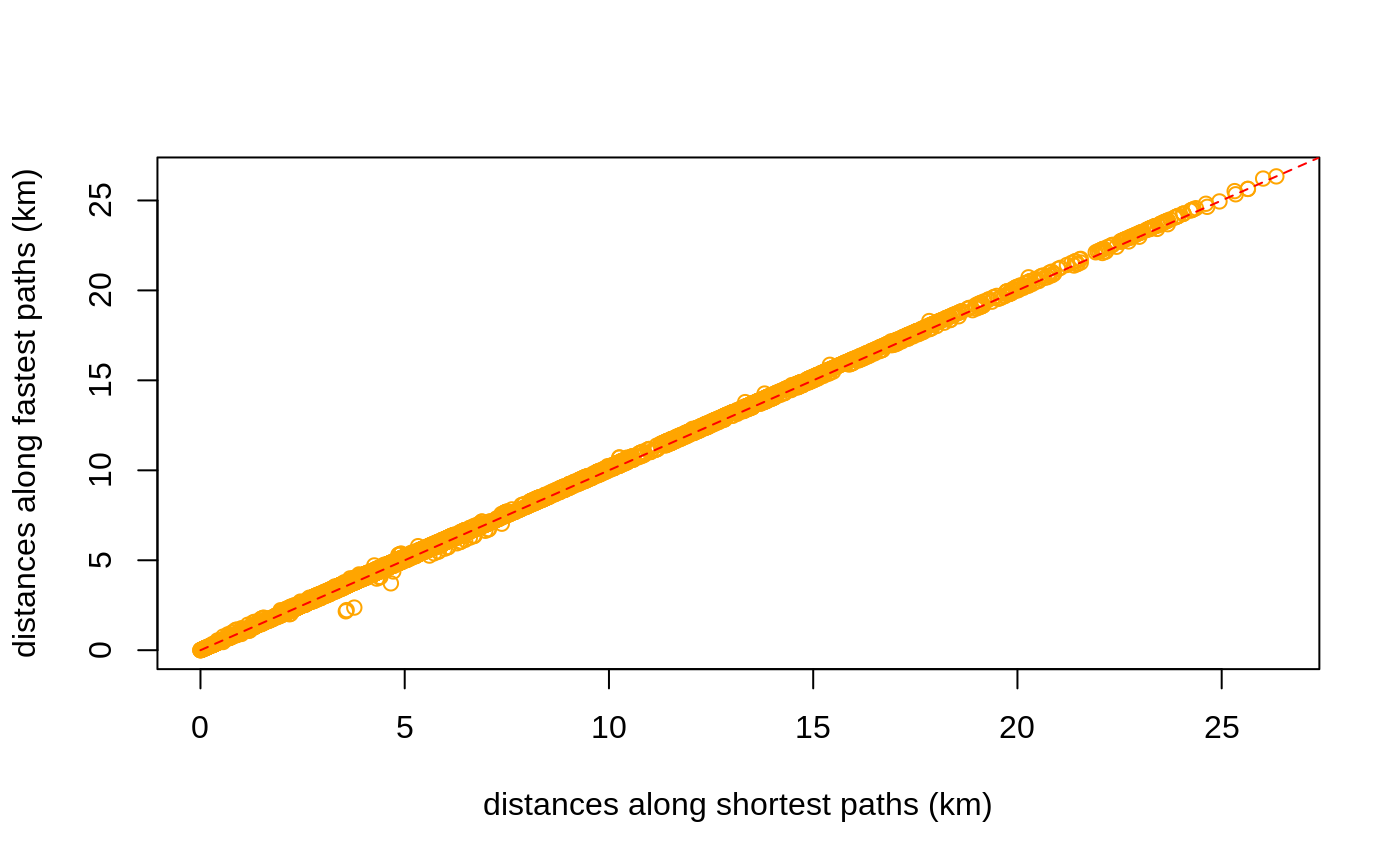
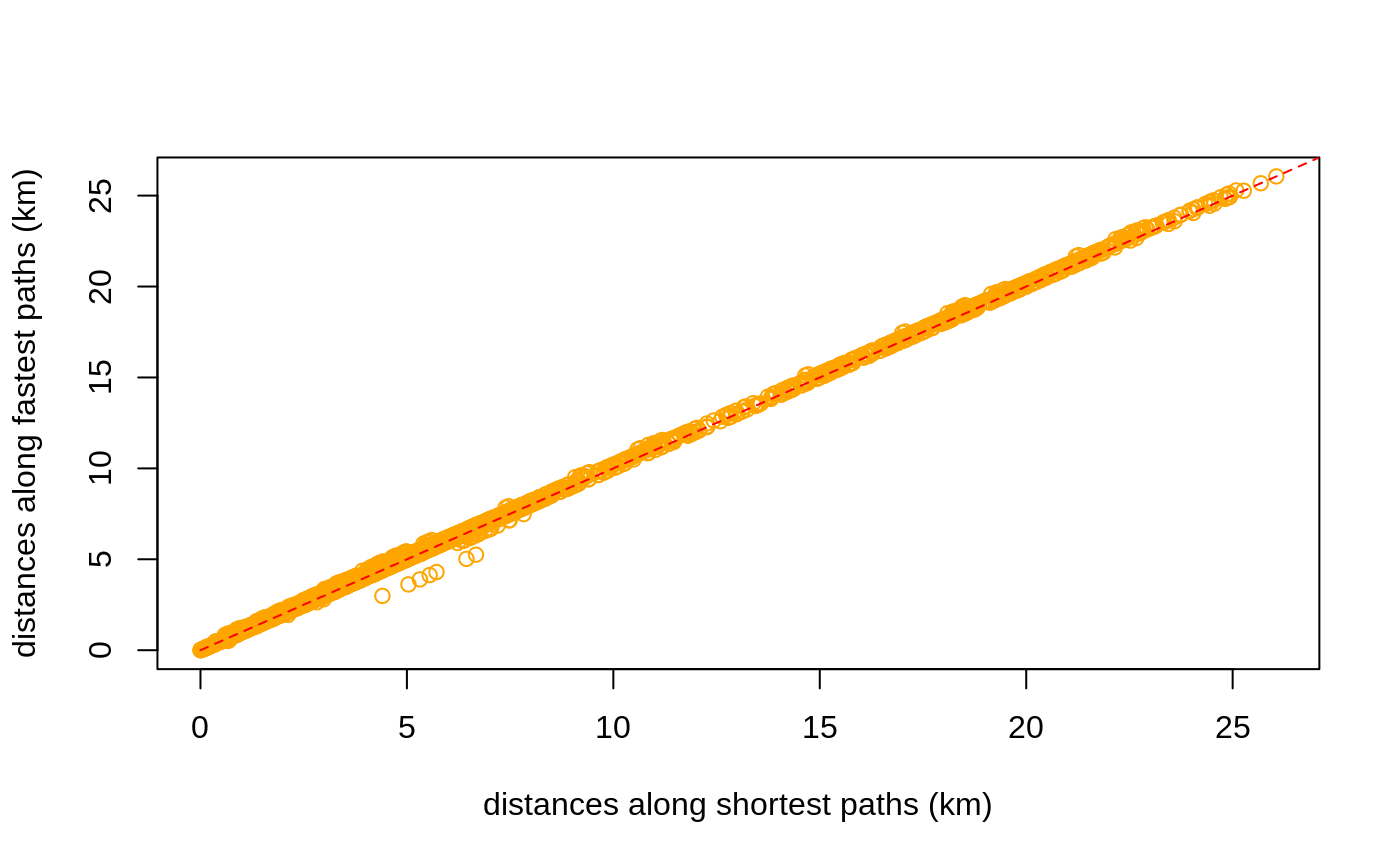
Built site for dodgr: 0.2.5.27@71bd8a2

diff --git a/articles/dodgr.html b/articles/dodgr.html
@@ -336,7 +336,7 @@
 <p>The <code>dodgr</code> packages includes a function to select a random connected portion of graph including a specified number of vertices. This function is used in the <a href="https://atfutures.github.io/dodgr/reference/compare_heaps.html"><code><a href="../reference/compare_heaps.html">compare_heaps()</a></code></a> function described below, but is also useful for general statistical analyses of large graphs which may otherwise take too long to compute.</p>
 <div class="sourceCode" id="cb58"><pre class="sourceCode r"><code class="sourceCode r"><a class="sourceLine" id="cb58-1" data-line-number="1">graph_sub &lt;-<span class="st"> </span><span class="kw"><a href="../reference/dodgr_sample.html">dodgr_sample</a></span> (graph, <span class="dt">nverts =</span> <span class="dv">100</span>)</a>
 <a class="sourceLine" id="cb58-2" data-line-number="2"><span class="kw"><a href="https://rdrr.io/r/base/nrow.html">nrow</a></span> (graph_sub)</a></code></pre></div>
-<pre><code>## [1] 208</code></pre>
+<pre><code>## [1] 199</code></pre>
 <p>The random sample has around twice as many edges as vertices, in accordance with the statistics calculated above.</p>
 <div class="sourceCode" id="cb60"><pre class="sourceCode r"><code class="sourceCode r"><a class="sourceLine" id="cb60-1" data-line-number="1"><span class="kw"><a href="https://rdrr.io/r/base/nrow.html">nrow</a></span> (<span class="kw"><a href="../reference/dodgr_vertices.html">dodgr_vertices</a></span> (graph_sub))</a></code></pre></div>
 <pre><code>## [1] 100</code></pre>
@@ -416,30 +416,30 @@
 <pre><code>## Loading required namespace: igraph</code></pre>
 <pre><code>##                                                                                   test
 ## 6       d &lt;- dodgr_dists(graph_contracted, from = from_id, to = to_id, heap = "BHeap")
+## 11        d &lt;- dodgr_dists(graph_contracted, from = from_id, to = to_id, heap = "set")
 ## 7       d &lt;- dodgr_dists(graph_contracted, from = from_id, to = to_id, heap = "FHeap")
-## 8     d &lt;- dodgr_dists(graph_contracted, from = from_id, to = to_id, heap = "TriHeap")
 ## 9  d &lt;- dodgr_dists(graph_contracted, from = from_id, to = to_id, heap = "TriHeapExt")
 ## 10     d &lt;- dodgr_dists(graph_contracted, from = from_id, to = to_id, heap = "Heap23")
-## 11        d &lt;- dodgr_dists(graph_contracted, from = from_id, to = to_id, heap = "set")
+## 8     d &lt;- dodgr_dists(graph_contracted, from = from_id, to = to_id, heap = "TriHeap")
 ## 1                  d &lt;- dodgr_dists(graph, from = from_id, to = to_id, heap = "BHeap")
 ## 12                  d &lt;- igraph::distances(igr, v = from_id, to = to_id, mode = "out")
 ## 2                  d &lt;- dodgr_dists(graph, from = from_id, to = to_id, heap = "FHeap")
-## 5                 d &lt;- dodgr_dists(graph, from = from_id, to = to_id, heap = "Heap23")
 ## 3                d &lt;- dodgr_dists(graph, from = from_id, to = to_id, heap = "TriHeap")
+## 5                 d &lt;- dodgr_dists(graph, from = from_id, to = to_id, heap = "Heap23")
 ## 4             d &lt;- dodgr_dists(graph, from = from_id, to = to_id, heap = "TriHeapExt")
 ##    replications elapsed relative user.self sys.self user.child sys.child
-## 6             1   0.003    1.000     0.003    0.000          0         0
-## 7             1   0.003    1.000     0.004    0.000          0         0
-## 8             1   0.003    1.000     0.004    0.000          0         0
-## 9             1   0.003    1.000     0.003    0.000          0         0
-## 10            1   0.003    1.000     0.004    0.000          0         0
-## 11            1   0.003    1.000     0.003    0.000          0         0
-## 1             1   0.008    2.667     0.013    0.000          0         0
-## 12            1   0.010    3.333     0.010    0.000          0         0
-## 2             1   0.012    4.000     0.020    0.000          0         0
-## 5             1   0.014    4.667     0.023    0.000          0         0
-## 3             1   0.015    5.000     0.020    0.004          0         0
-## 4             1   0.016    5.333     0.016    0.000          0         0</code></pre>
+## 6             1   0.004     1.00     0.006    0.000          0         0
+## 11            1   0.005     1.25     0.006    0.000          0         0
+## 7             1   0.006     1.50     0.008    0.000          0         0
+## 9             1   0.006     1.50     0.007    0.000          0         0
+## 10            1   0.006     1.50     0.008    0.000          0         0
+## 8             1   0.008     2.00     0.010    0.000          0         0
+## 1             1   0.013     3.25     0.019    0.001          0         0
+## 12            1   0.017     4.25     0.017    0.000          0         0
+## 2             1   0.021     5.25     0.035    0.000          0         0
+## 3             1   0.023     5.75     0.041    0.000          0         0
+## 5             1   0.023     5.75     0.040    0.000          0         0
+## 4             1   0.026     6.50     0.026    0.000          0         0</code></pre>
 <p>The key column of that <code>data.frame</code> is <code>relative</code>, which quantifies the relative performance of each test in relation to the best which is given a score of 1. <code>dodgr</code> using the default <code>heap = "BHeap"</code>, which is a binary heap priority queue, performs faster than <a href="https://igraph.org"><code>igraph</code></a> <span class="citation">(Csardi and Nepusz 2006)</span> for these graphs. Different kind of graphs will perform differently with different priority queue structures, and this function enables users to empirically discern the optimal heap for their kind of graph.</p>
 <p>Note, however, that this is not an entirely fair comparison, because <code>dodgr</code> calculates dual-weighted distances, whereas <a href="https://igraph.org"><code>igraph</code></a>—and indeed all other <strong>R</strong> packages—only directly calculate distances based on a single set of weights. Implementing dual-weighted routing in these cases requires explicitly re-tracing all paths and summing the second set of weights along each path. A time comparison in that case would be very strongly in favour of <code>dodgr</code>. Moreover, <code>dodgr</code> can convert graphs to contracted form through removing redundant vertices, as detailed in the following section. Doing so greatly improves performance with respect to <a href="https://igraph.org"><code>igraph</code></a>.</p>
 <p>For those wishing to do explicit comparisons themselves, the following code generates the <a href="https://igraph.org"><code>igraph</code></a> equivalent of <a href="https://atfutures.github.io/dodgr/reference/dodgr_distances.html"><code><a href="../reference/dodgr_distances.html">dodgr_distances()</a></code></a>, although of course for single-weighted graphs only:</p>
@@ -470,11 +470,11 @@
 <a class="sourceLine" id="cb86-5" data-line-number="5">                       d2 &lt;-<span class="st"> </span><span class="kw"><a href="../reference/dodgr_dists.html">dodgr_dists</a></span> (graph, <span class="dt">from =</span> from, <span class="dt">to =</span> to),</a>
 <a class="sourceLine" id="cb86-6" data-line-number="6">                       <span class="dt">replications =</span> <span class="dv">2</span>)</a></code></pre></div>
 <pre><code>##                                             test replications elapsed
-## 2 d2 &lt;- dodgr_dists(graph, from = from, to = to)            2   0.040
+## 2 d2 &lt;- dodgr_dists(graph, from = from, to = to)            2   0.042
 ## 1   d2 &lt;- dodgr_dists(grc, from = from, to = to)            2   0.008
 ##   relative user.self sys.self user.child sys.child
-## 2        5     0.059        0          0         0
-## 1        1     0.010        0          0         0</code></pre>
+## 2     5.25      0.06        0          0         0
+## 1     1.00      0.01        0          0         0</code></pre>
 <p>And contracting the graph has a similar effect of speeding up pairwise routing between these 100 points. All routing algorithms scale non-linearly with size, and relative improvements in efficiency will be even greater for larger graphs.</p>
 <div id="routing-on-contracted-graphs" class="section level2">
 <h2 class="hasAnchor">
@@ -486,11 +486,11 @@
 <pre><code>## [1] 672</code></pre>
 <div class="sourceCode" id="cb90"><pre class="sourceCode r"><code class="sourceCode r"><a class="sourceLine" id="cb90-1" data-line-number="1">verts &lt;-<span class="st"> </span><span class="kw"><a href="https://rdrr.io/r/base/sample.html">sample</a></span> (<span class="kw"><a href="../reference/dodgr_vertices.html">dodgr_vertices</a></span> (graph)<span class="op">$</span>id, <span class="dt">size =</span> <span class="dv">100</span>)</a>
 <a class="sourceLine" id="cb90-2" data-line-number="2"><span class="kw"><a href="https://rdrr.io/r/utils/head.html">head</a></span> (verts) <span class="co"># a character vector</span></a></code></pre></div>
-<pre><code>## [1] "5351820897" "5351820956" "6161853513" "571423815"  "2195425009"
-## [6] "5351515768"</code></pre>
+<pre><code>## [1] "339574193"  "3697937610" "2398957496" "2627476998" "3921523005"
+## [6] "1691495764"</code></pre>
 <div class="sourceCode" id="cb92"><pre class="sourceCode r"><code class="sourceCode r"><a class="sourceLine" id="cb92-1" data-line-number="1">grc &lt;-<span class="st"> </span><span class="kw"><a href="../reference/dodgr_contract_graph.html">dodgr_contract_graph</a></span> (graph, verts)</a>
 <a class="sourceLine" id="cb92-2" data-line-number="2"><span class="kw"><a href="https://rdrr.io/r/base/nrow.html">nrow</a></span> (grc)</a></code></pre></div>
-<pre><code>## [1] 848</code></pre>
+<pre><code>## [1] 850</code></pre>
 <p>Retaining the nominated vertices yields a graph with considerably more edges than the fully contracted graph excluding these vertices. The <a href="https://atfutures.github.io/dodgr/reference/dodgr_distances.html"><code><a href="../reference/dodgr_distances.html">dodgr_distances()</a></code></a> function can be applied to the latter graph to obtain accurate distances precisely routed between these points, yet using the speed advantages of graph contraction.</p>
 </div>
 </div>
@@ -531,19 +531,47 @@
 <pre><code>## [1] 10</code></pre>
 <p>The result (<code>dp</code>) is a list of 10 items, each of which contains 5 vectors. An example is,</p>
 <div class="sourceCode" id="cb99"><pre class="sourceCode r"><code class="sourceCode r"><a class="sourceLine" id="cb99-1" data-line-number="1">dp [[<span class="dv">1</span>]] [[<span class="dv">1</span>]]</a></code></pre></div>
-<pre><code>##  [1] "5974426254" "5974426310" "5974426305" "5974426301" "5974426283"
-##  [6] "5974426275" "5974426268" "5974426260" "5974426269" "5974426261"</code></pre>
+<pre><code>##   [1] "5974426276" "5351820876" "5351820875" "5974426285" "5351820873"
+##   [6] "5351820872" "5351820871" "5351820870" "5974426277" "5351820869"
+##  [11] "5974426270" "5351820867" "5974426262" "5351820878" "5351820879"
+##  [16] "5974426306" "5974426302" "5351820880" "5974426297" "5351820881"
+##  [21] "5974426291" "5351820882" "5351820883" "5351820884" "5974426298"
+##  [26] "5351820885" "5974426292" "5974426286" "5351820886" "5351820887"
+##  [31] "5974426278" "5351820888" "5351820889" "5351820890" "5351820891"
+##  [36] "5974426256" "5351820892" "5351820919" "5351820893" "5351820895"
+##  [41] "5974426293" "5974426287" "5351820897" "5351820899" "5974426279"
+##  [46] "5351820900" "5974426271" "5351820901" "5351820902" "5351820903"
+##  [51] "5351820904" "5351820905" "5351820906" "5351820907" "5351820908"
+##  [56] "5974426280" "5351820909" "5351820910" "5974426272" "5974426265"
+##  [61] "5351820911" "5974426258" "5351820913" "5351820914" "5351820915"
+##  [66] "5351820916" "2588146068" "2588146127" "2588146020" "2588146125"
+##  [71] "2588146098" "2588146103" "2588146101" "2588146089" "2588146081"
+##  [76] "2588146050" "2588146042" "2588146120" "2588146091" "2588146032"
+##  [81] "2398957747" "2398957746" "286632883"  "2398957740" "1390214413"
+##  [86] "2398957736" "286632882"  "2398957733" "2398957730" "2398957727"
+##  [91] "676635816"  "2398957724" "2398957714" "2398957712" "2398957710"
+##  [96] "2398957707" "338512648"  "2398957704" "2398957702" "2398957694"
+## [101] "1427116026" "2398957682" "2398957668" "5974503437" "1376768511"
+## [106] "5974503436" "1376768873" "1376768299" "1376768660" "5974503435"
+## [111] "1376768931" "5974503434" "5351820956" "5974503433" "1376768356"
+## [116] "5351820955" "1376768725" "5974503432" "1376769087" "5351820954"
+## [121] "1376768601" "6414886578" "1376768961" "1376768386" "6414886577"
+## [126] "1376768754" "6414886576" "1376769017" "6414886575" "1376768447"
+## [131] "1376768817" "6414886574" "1376769196" "1376768697" "4506481428"
+## [136] "4506481427" "4506481426" "4506481425" "4506481424" "4506481423"
+## [141] "4506481422" "4506481421" "4506481420" "4506481419" "4506481418"
+## [146] "4506481417" "4506481416" "4506481415"</code></pre>
 <p>For spatial graphs, the coordinates of these paths can be obtained by extracting the vertices with <code><a href="../reference/dodgr_vertices.html">dodgr_vertices()</a></code> and matching the vertex IDs:</p>
 <div class="sourceCode" id="cb101"><pre class="sourceCode r"><code class="sourceCode r"><a class="sourceLine" id="cb101-1" data-line-number="1">verts &lt;-<span class="st"> </span><span class="kw"><a href="../reference/dodgr_vertices.html">dodgr_vertices</a></span> (graph)</a>
 <a class="sourceLine" id="cb101-2" data-line-number="2">path1 &lt;-<span class="st"> </span>verts [<span class="kw"><a href="https://rdrr.io/r/base/match.html">match</a></span> (dp [[<span class="dv">1</span>]] [[<span class="dv">1</span>]], verts<span class="op">$</span>id), ]</a>
 <a class="sourceLine" id="cb101-3" data-line-number="3"><span class="kw"><a href="https://rdrr.io/r/utils/head.html">head</a></span> (path1)</a></code></pre></div>
 <pre><code>##              id        x        y component    n
-## 5502 5974426254 76.44764 15.31765         1 2717
-## 5500 5974426310 76.44710 15.31761         1 2716
-## 5498 5974426305 76.44704 15.31759         1 2715
-## 5496 5974426301 76.44702 15.31756         1 2714
-## 5494 5974426283 76.44701 15.31748         1 2713
-## 5492 5974426275 76.44697 15.31741         1 2712</code></pre>
+## 5472 5974426276 76.44661 15.31544         1 2702
+## 5470 5351820876 76.44661 15.31497         1 2701
+## 5468 5351820875 76.44662 15.31488         1 2700
+## 5466 5974426285 76.44666 15.31479         1 2699
+## 5464 5351820873 76.44668 15.31453         1 2698
+## 5462 5351820872 76.44672 15.31444         1 2697</code></pre>
 <p>Paths calculated on contracted graphs will of course have fewer vertices than those calculated on full graphs.</p>
 </div>
 <div id="bibliography" class="section level1 unnumbered">

diff --git a/articles/times.html b/articles/times.html
@@ -226,11 +226,11 @@
 <p><img src="times_files/figure-html/shortest-vs-fastest-1.png" width="700"></p>
 <p>The average distance between the two (in metres) is:</p>
 <div class="sourceCode" id="cb9"><pre class="sourceCode r"><code class="sourceCode r"><a class="sourceLine" id="cb9-1" data-line-number="1"><span class="kw"><a href="https://rdrr.io/r/base/mean.html">mean</a></span> (<span class="kw"><a href="https://rdrr.io/r/base/MathFun.html">abs</a></span> (d_time <span class="op">-</span><span class="st"> </span>d_dist), <span class="dt">na.rm =</span> <span class="ot">TRUE</span>)</a></code></pre></div>
-<pre><code>## [1] 50.29141</code></pre>
+<pre><code>## [1] 53.81089</code></pre>
 <p>The plot reveals that shortest distances are indeed somewhat shorter than distances along fastest paths, but also that some fastest paths are actually shorter than shortest paths:</p>
 <div class="sourceCode" id="cb11"><pre class="sourceCode r"><code class="sourceCode r"><a class="sourceLine" id="cb11-1" data-line-number="1">index &lt;-<span class="st"> </span><span class="kw"><a href="https://rdrr.io/r/base/which.html">which</a></span> (<span class="op">!</span><span class="kw"><a href="https://rdrr.io/r/base/NA.html">is.na</a></span> (d_time) <span class="op">&amp;</span><span class="st"> </span><span class="op">!</span><span class="kw"><a href="https://rdrr.io/r/base/NA.html">is.na</a></span> (d_dist))</a>
 <a class="sourceLine" id="cb11-2" data-line-number="2"><span class="kw"><a href="https://rdrr.io/r/base/length.html">length</a></span> (<span class="kw"><a href="https://rdrr.io/r/base/which.html">which</a></span> (d_time [index] <span class="op">&lt;</span><span class="st"> </span>d_dist [index])) <span class="op">/</span><span class="st"> </span><span class="kw"><a href="https://rdrr.io/r/base/length.html">length</a></span> (index)</a></code></pre></div>
-<pre><code>## [1] 0.0220339</code></pre>
+<pre><code>## [1] 0.01382488</code></pre>
 <p>While <code>dodgr</code> and indeed all routing engines attempt to maximally reconcile differences between fastest and shortest routes, there nevertheless remain important discrepancies. Foremost among these, and the primary reason why some fastest routes may in fact be shorter than shortest routes, is that fastest routes allocate preferences for different kinds of way based both on the <code>value</code> column in the <code>weighting_profiles$weighting_profiles</code> table illustrated above, and on the actual maximum speed of a given edge, which itself may be a combination of maximum speeds as specified in OSM itself, maximum speeds from the <code>weighting_profiles$weighting_profiles</code> table, or values specific to a given surface. The result is that some unique combination of maximum speeds along a network may lead to <em>fastest</em> routes being preferentially directed along a path that is actually shorter than the direct shortest path which is calculated independent of maximum speed values.</p>
 <p>Such discrepancies are important in understanding differences in routes <em>times</em> calculated along shortest versus fastest paths. These times can be calculated (in seconds) with the <a href="https://atfutures.github.io/dodgr/reference/dodgr_times.html"><code><a href="../reference/dodgr_times.html">dodgr_times()</a></code></a> function:</p>
 <div class="sourceCode" id="cb13"><pre class="sourceCode r"><code class="sourceCode r"><a class="sourceLine" id="cb13-1" data-line-number="1">t_dist &lt;-<span class="st"> </span><span class="kw"><a href="../reference/dodgr_times.html">dodgr_times</a></span> (graph, <span class="dt">from =</span> from, <span class="dt">to =</span> to, <span class="dt">shortest =</span> <span class="ot">TRUE</span>) <span class="co"># default</span></a>
@@ -241,11 +241,11 @@
 <a class="sourceLine" id="cb13-6" data-line-number="6"><span class="kw"><a href="https://rdrr.io/r/graphics/lines.html">lines</a></span> (<span class="dv">0</span><span class="op">:</span><span class="dv">100</span>, <span class="dv">0</span><span class="op">:</span><span class="dv">100</span>, <span class="dt">col =</span> <span class="st">"red"</span>, <span class="dt">lty =</span> <span class="dv">2</span>)</a></code></pre></div>
 <p><img src="times_files/figure-html/shortest-vs-fastest-times-1.png" width="700"></p>
 <div class="sourceCode" id="cb14"><pre class="sourceCode r"><code class="sourceCode r"><a class="sourceLine" id="cb14-1" data-line-number="1"><span class="kw"><a href="https://rdrr.io/r/base/mean.html">mean</a></span> (<span class="kw"><a href="https://rdrr.io/r/base/MathFun.html">abs</a></span> (t_time <span class="op">-</span><span class="st"> </span>t_dist), <span class="dt">na.rm =</span> <span class="ot">TRUE</span>)</a></code></pre></div>
-<pre><code>## [1] 57.76645</code></pre>
+<pre><code>## [1] 48.1183</code></pre>
 <p>As above, times along fastest paths are generally less than times along shortest paths, although there are again a few exceptions:</p>
 <div class="sourceCode" id="cb16"><pre class="sourceCode r"><code class="sourceCode r"><a class="sourceLine" id="cb16-1" data-line-number="1">index &lt;-<span class="st"> </span><span class="kw"><a href="https://rdrr.io/r/base/which.html">which</a></span> (<span class="op">!</span><span class="kw"><a href="https://rdrr.io/r/base/NA.html">is.na</a></span> (t_time) <span class="op">&amp;</span><span class="st"> </span><span class="op">!</span><span class="kw"><a href="https://rdrr.io/r/base/NA.html">is.na</a></span> (t_dist))</a>
 <a class="sourceLine" id="cb16-2" data-line-number="2"><span class="kw"><a href="https://rdrr.io/r/base/length.html">length</a></span> (<span class="kw"><a href="https://rdrr.io/r/base/which.html">which</a></span> (t_dist [index] <span class="op">&lt;</span><span class="st"> </span>t_time [index])) <span class="op">/</span><span class="st"> </span><span class="kw"><a href="https://rdrr.io/r/base/length.html">length</a></span> (index)</a></code></pre></div>
-<pre><code>## [1] 0.002881356</code></pre>
+<pre><code>## [1] 0.03557604</code></pre>
 <p>These results demonstrate how the combination of the <a href="https://atfutures.github.io/dodgr/reference/dodgr_distances.html"><code><a href="../reference/dodgr_distances.html">dodgr_distances()</a></code></a> and <a href="https://atfutures.github.io/dodgr/reference/dodgr_times.html"><code><a href="../reference/dodgr_times.html">dodgr_times()</a></code></a> functions enable calculation of both distances and times along both shortest and fastest paths.</p>
 <div id="time-based-paths-and-flow-aggregation" class="section level2">
 <h2 class="hasAnchor">

diff --git a/reference/compare_heaps.html b/reference/compare_heaps.html
@@ -156,31 +156,31 @@ fair comparisons, run only once or re-start the current R session.</p>
     <h2 class="hasAnchor" id="examples"><a class="anchor" href="#examples"></a>Examples</h2>
     <pre class="examples"><div class='input'><span class='no'>graph</span> <span class='kw'>&lt;-</span> <span class='fu'><a href='weight_streetnet.html'>weight_streetnet</a></span> (<span class='no'>hampi</span>)
 <span class='fu'>compare_heaps</span> (<span class='no'>graph</span>, <span class='kw'>nverts</span> <span class='kw'>=</span> <span class='fl'>1000</span>, <span class='kw'>replications</span> <span class='kw'>=</span> <span class='fl'>1</span>)</div><div class='output co'>#&gt; <span class='message'>Loading required namespace: rbenchmark</span></div><div class='output co'>#&gt; <span class='message'>Loading required namespace: igraph</span></div><div class='output co'>#&gt;                                                                                   test
-#&gt; 11        d &lt;- dodgr_dists(graph_contracted, from = from_id, to = to_id, heap = "set")
 #&gt; 6       d &lt;- dodgr_dists(graph_contracted, from = from_id, to = to_id, heap = "BHeap")
-#&gt; 7       d &lt;- dodgr_dists(graph_contracted, from = from_id, to = to_id, heap = "FHeap")
 #&gt; 10     d &lt;- dodgr_dists(graph_contracted, from = from_id, to = to_id, heap = "Heap23")
+#&gt; 11        d &lt;- dodgr_dists(graph_contracted, from = from_id, to = to_id, heap = "set")
+#&gt; 7       d &lt;- dodgr_dists(graph_contracted, from = from_id, to = to_id, heap = "FHeap")
 #&gt; 8     d &lt;- dodgr_dists(graph_contracted, from = from_id, to = to_id, heap = "TriHeap")
 #&gt; 9  d &lt;- dodgr_dists(graph_contracted, from = from_id, to = to_id, heap = "TriHeapExt")
 #&gt; 1                  d &lt;- dodgr_dists(graph, from = from_id, to = to_id, heap = "BHeap")
 #&gt; 12                  d &lt;- igraph::distances(igr, v = from_id, to = to_id, mode = "out")
 #&gt; 2                  d &lt;- dodgr_dists(graph, from = from_id, to = to_id, heap = "FHeap")
-#&gt; 3                d &lt;- dodgr_dists(graph, from = from_id, to = to_id, heap = "TriHeap")
 #&gt; 5                 d &lt;- dodgr_dists(graph, from = from_id, to = to_id, heap = "Heap23")
+#&gt; 3                d &lt;- dodgr_dists(graph, from = from_id, to = to_id, heap = "TriHeap")
 #&gt; 4             d &lt;- dodgr_dists(graph, from = from_id, to = to_id, heap = "TriHeapExt")
 #&gt;    replications elapsed relative user.self sys.self user.child sys.child
-#&gt; 11            1   0.004     1.00     0.006        0          0         0
-#&gt; 6             1   0.005     1.25     0.006        0          0         0
-#&gt; 7             1   0.005     1.25     0.008        0          0         0
-#&gt; 10            1   0.006     1.50     0.010        0          0         0
-#&gt; 8             1   0.007     1.75     0.010        0          0         0
-#&gt; 9             1   0.007     1.75     0.006        0          0         0
-#&gt; 1             1   0.015     3.75     0.024        0          0         0
-#&gt; 12            1   0.020     5.00     0.020        0          0         0
-#&gt; 2             1   0.023     5.75     0.041        0          0         0
-#&gt; 3             1   0.027     6.75     0.049        0          0         0
-#&gt; 5             1   0.027     6.75     0.048        0          0         0
-#&gt; 4             1   0.030     7.50     0.030        0          0         0</div></pre>
+#&gt; 6             1   0.003    1.000     0.005        0          0         0
+#&gt; 10            1   0.004    1.333     0.006        0          0         0
+#&gt; 11            1   0.004    1.333     0.005        0          0         0
+#&gt; 7             1   0.005    1.667     0.006        0          0         0
+#&gt; 8             1   0.005    1.667     0.006        0          0         0
+#&gt; 9             1   0.005    1.667     0.005        0          0         0
+#&gt; 1             1   0.011    3.667     0.016        0          0         0
+#&gt; 12            1   0.013    4.333     0.013        0          0         0
+#&gt; 2             1   0.015    5.000     0.025        0          0         0
+#&gt; 5             1   0.018    6.000     0.031        0          0         0
+#&gt; 3             1   0.019    6.333     0.030        0          0         0
+#&gt; 4             1   0.020    6.667     0.021        0          0         0</div></pre>
   </div>
   <div class="col-md-3 hidden-xs hidden-sm" id="sidebar">
     <h2>Contents</h2>

diff --git a/articles/flows.html b/articles/flows.html
@@ -116,8 +116,8 @@
 ## 6      8.393882    0</code></pre>
 <p>Most flows are zero because they have only been calculated between very few points in the graph.</p>
 <div class="sourceCode" id="cb4"><pre class="sourceCode r"><code class="sourceCode r"><a class="sourceLine" id="cb4-1" data-line-number="1"><span class="kw"><a href="https://rdrr.io/r/base/summary.html">summary</a></span> (graph_f<span class="op">$</span>flow)</a></code></pre></div>
-<pre><code>##     Min.  1st Qu.   Median     Mean  3rd Qu.     Max. 
-## 0.000000 0.000000 0.000000 0.048687 0.004981 1.143860</code></pre>
+<pre><code>##    Min. 1st Qu.  Median    Mean 3rd Qu.    Max. 
+## 0.00000 0.00000 0.00000 0.05048 0.01261 1.06538</code></pre>
 </div>
 <div id="flow-dispersal" class="section level2">
 <h2 class="hasAnchor">
@@ -127,7 +127,7 @@
 <a class="sourceLine" id="cb6-2" data-line-number="2">graph_f &lt;-<span class="st"> </span><span class="kw"><a href="../reference/dodgr_flows_disperse.html">dodgr_flows_disperse</a></span> (graph, <span class="dt">from =</span> from, <span class="dt">dens =</span> dens)</a>
 <a class="sourceLine" id="cb6-3" data-line-number="3"><span class="kw"><a href="https://rdrr.io/r/base/summary.html">summary</a></span> (graph_f<span class="op">$</span>flow)</a></code></pre></div>
 <pre><code>##      Min.   1st Qu.    Median      Mean   3rd Qu.      Max. 
-## 0.0000000 0.0000000 0.0002424 0.0016742 0.0022111 0.0319647</code></pre>
+## 0.0000000 0.0000000 0.0000798 0.0016742 0.0010886 0.0664087</code></pre>
 </div>
 <div id="merging-directed-flows" class="section level2">
 <h2 class="hasAnchor">
@@ -137,7 +137,7 @@
 <p>Resultant graphs produced by <a href="https://atfutures.github.io/dodgr/reference/merge_directed_graph.html"><code><a href="../reference/merge_directed_graph.html">merge_directed_graph()</a></code></a> only include those edges having non-zero flows, and so:</p>
 <div class="sourceCode" id="cb9"><pre class="sourceCode r"><code class="sourceCode r"><a class="sourceLine" id="cb9-1" data-line-number="1"><span class="kw"><a href="https://rdrr.io/r/base/nrow.html">nrow</a></span> (graph_f); <span class="kw"><a href="https://rdrr.io/r/base/nrow.html">nrow</a></span> (graph_undir) <span class="co"># the latter is much smaller</span></a></code></pre></div>
 <pre><code>## [1] 5973</code></pre>
-<pre><code>## [1] 2869</code></pre>
+<pre><code>## [1] 2878</code></pre>
 <p>The resultant graph can readily be merged with the original graph to regain the original data on vertex coordinates through</p>
 <div class="sourceCode" id="cb12"><pre class="sourceCode r"><code class="sourceCode r"><a class="sourceLine" id="cb12-1" data-line-number="1">graph &lt;-<span class="st"> </span>graph [graph_undir<span class="op">$</span>edge_id, ]</a>
 <a class="sourceLine" id="cb12-2" data-line-number="2">graph<span class="op">$</span>flow &lt;-<span class="st"> </span>graph_undir<span class="op">$</span>flow</a></code></pre></div>

diff --git a/reference/dodgr_flows_si.html b/reference/dodgr_flows_si.html
@@ -214,6 +214,12 @@ The <code>norm_sums = TRUE</code> option is appropriate where densities are rela
 values, and ensures that each edge maintains relative proportions. In the
 above example, flows along each of two edges would equal one, for a network
 sum of two, or greater than the sum of densities.</p>
+<p>With <code>norm_sums = TRUE</code>, the sum of network flows (<code><a href='https://rdrr.io/r/base/sum.html'>sum(output$flow)</a></code>) should
+equal the sum of origin densities (<code><a href='https://rdrr.io/r/base/sum.html'>sum(dens_from)</a></code>). This may nevertheless
+not always be the case, because origin points may simply be too far from any
+denstination (<code>to</code>) points for an exponential model to yield non-zero values
+anywhere in a network within machine tolerance. Such cases may result in sums
+of output flows being less than sums of input densities.</p>
 
     <h2 class="hasAnchor" id="examples"><a class="anchor" href="#examples"></a>Examples</h2>
     <pre class="examples"><div class='input'><span class='no'>graph</span> <span class='kw'>&lt;-</span> <span class='fu'><a href='weight_streetnet.html'>weight_streetnet</a></span> (<span class='no'>hampi</span>)
